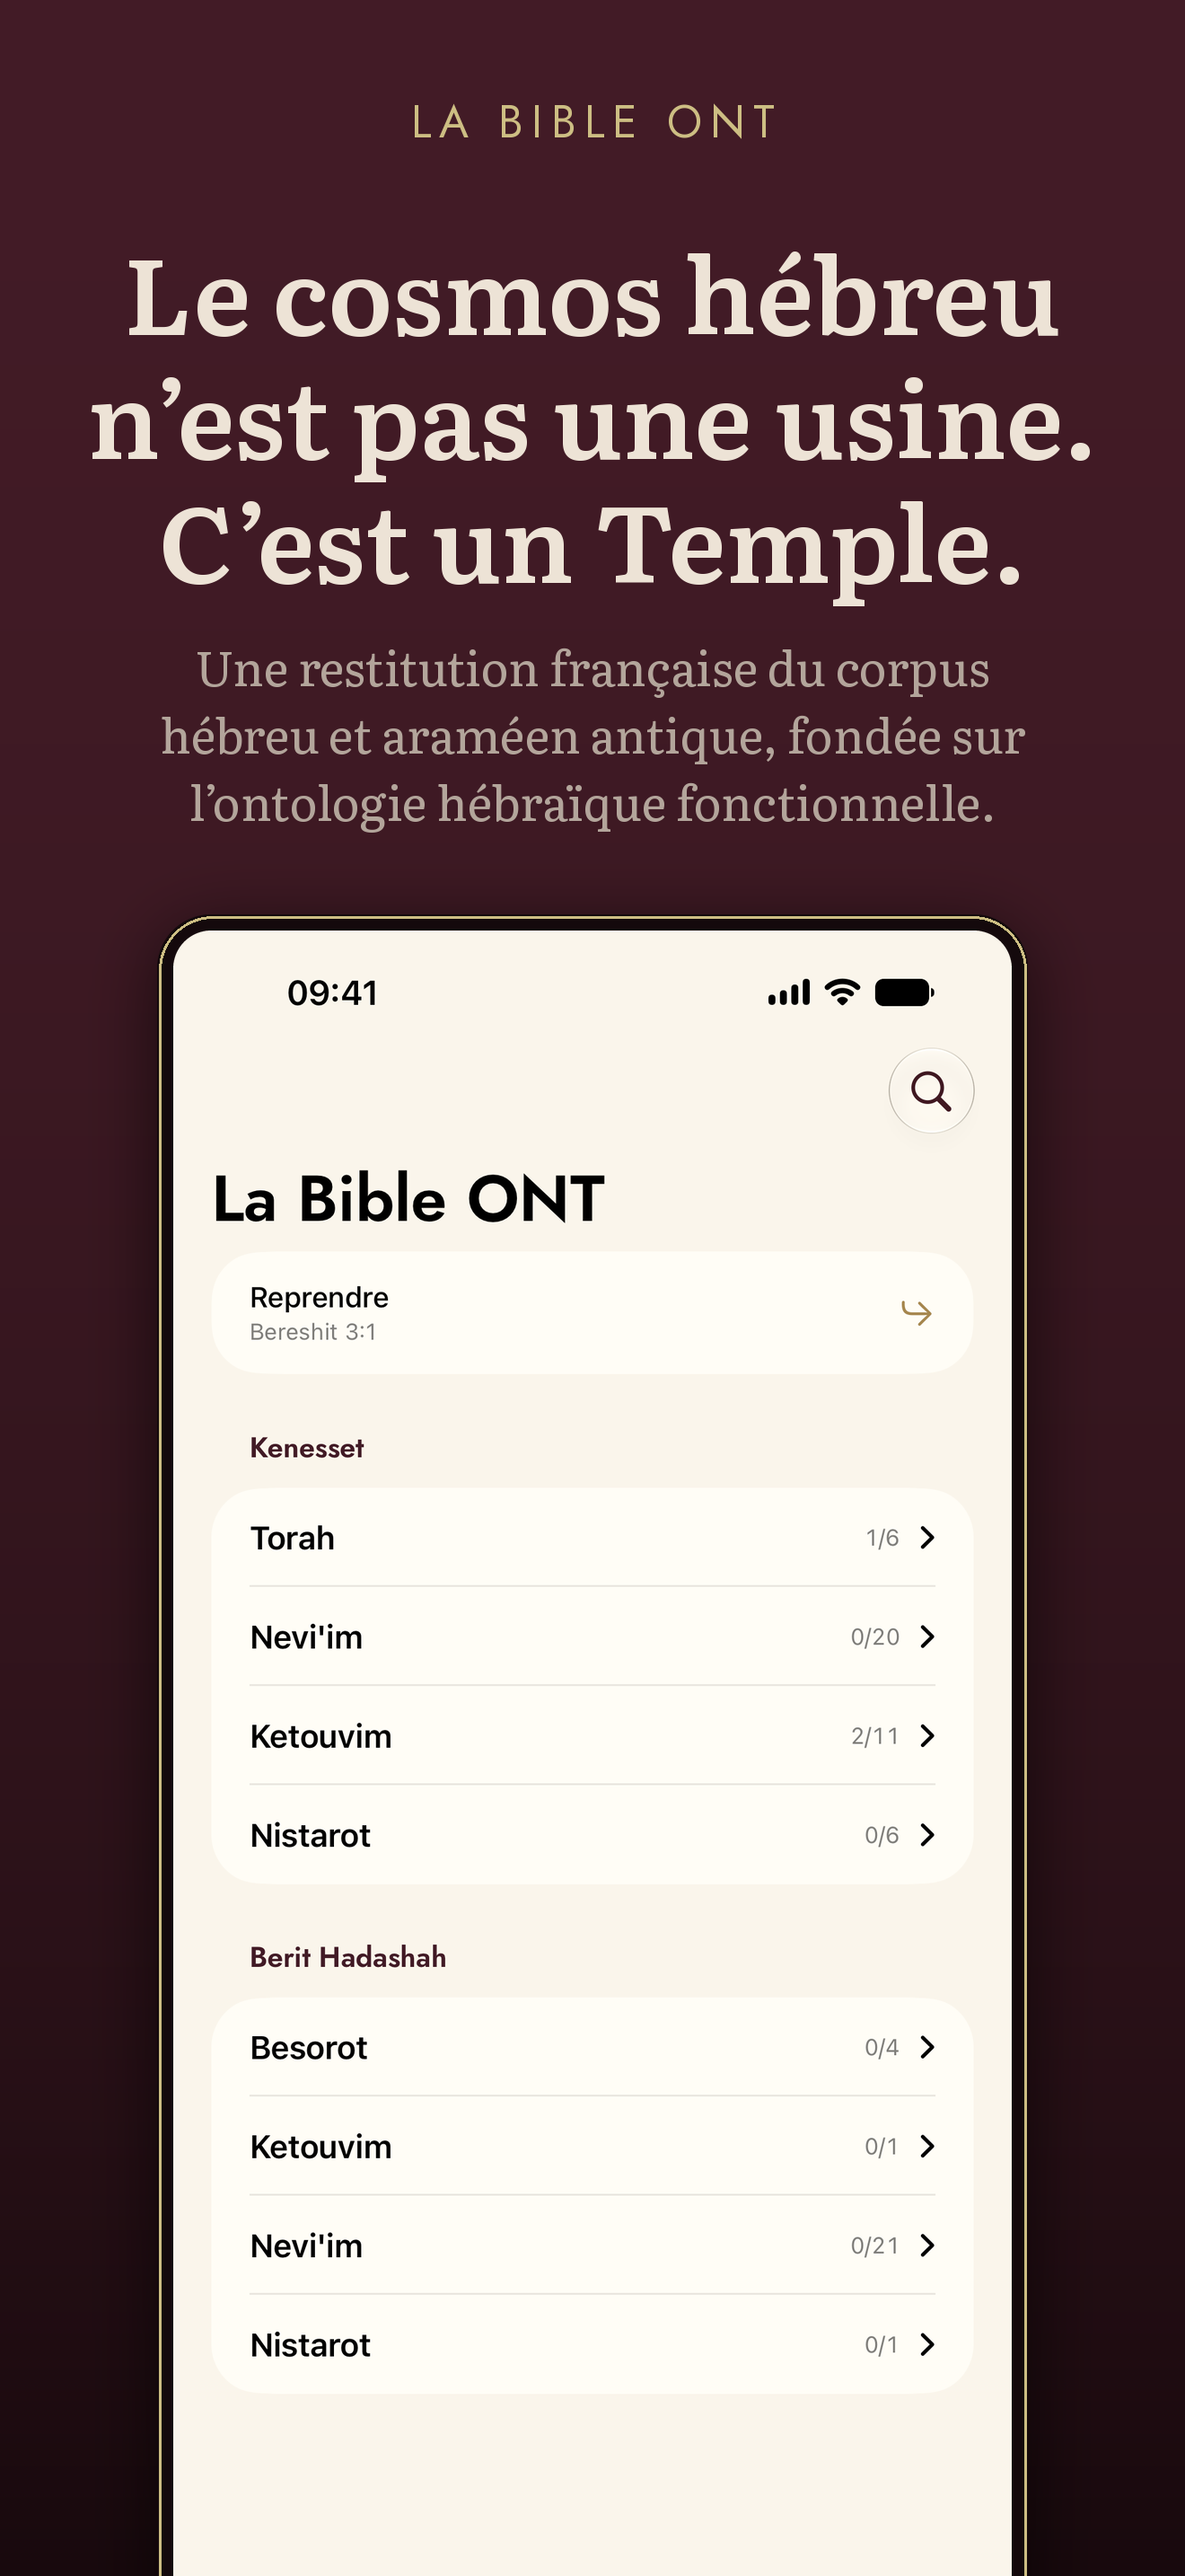
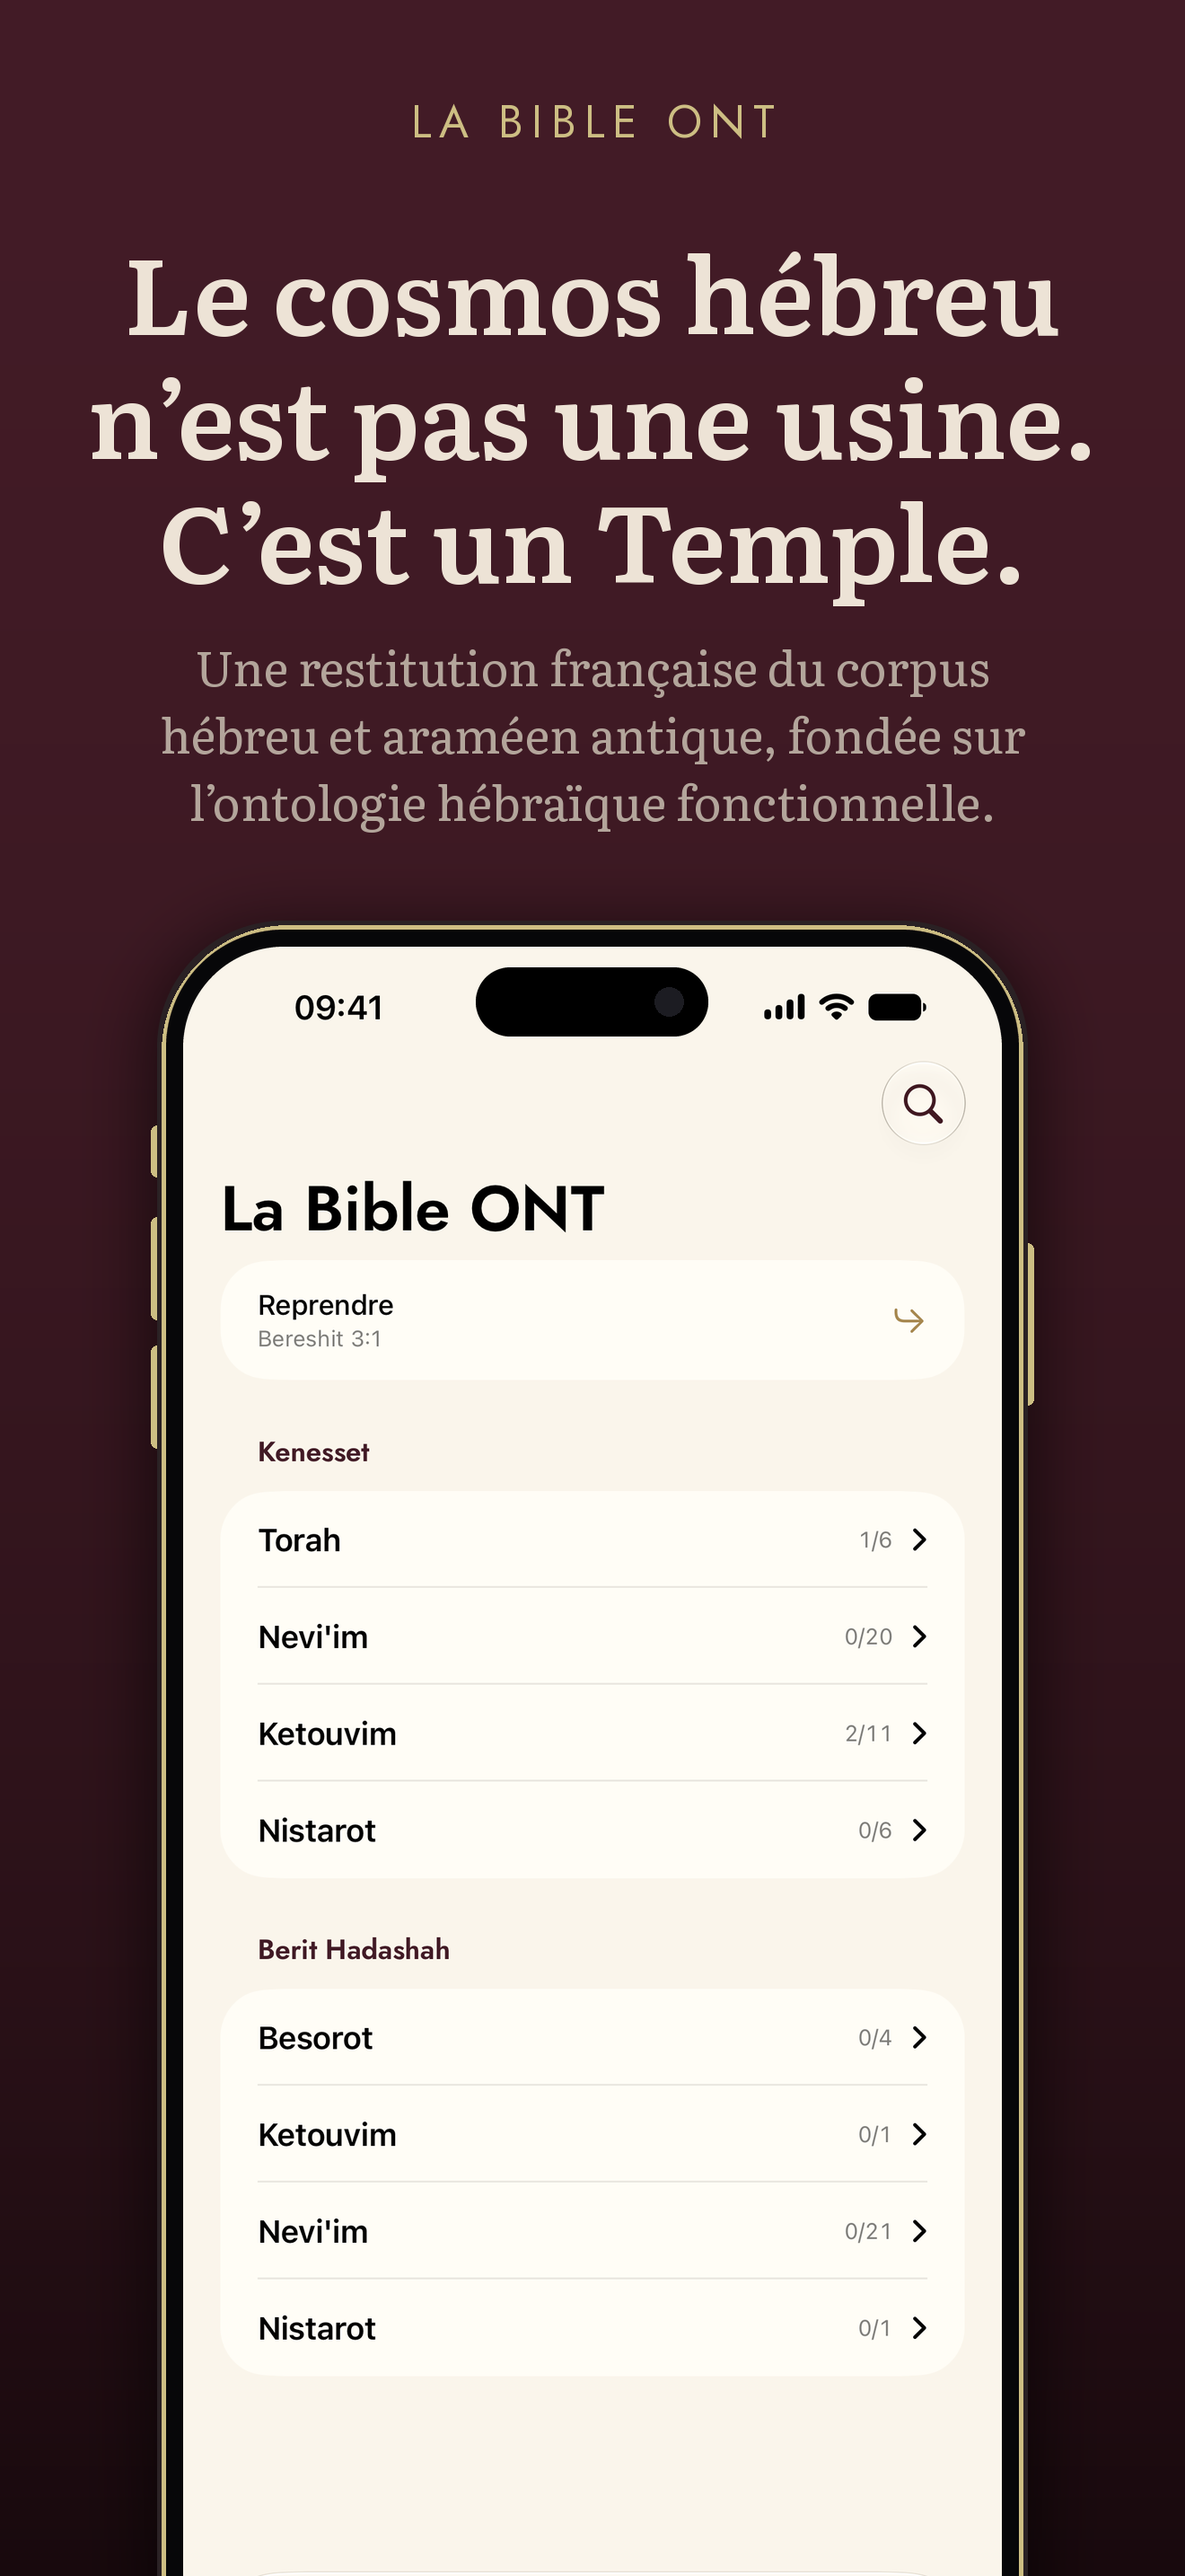
Monter les captures dans un vrai châssis, et non un rectangle arrondi
L'affiche s'est fait prendre pour un appareil Android, et à raison : le
cadre était un rectangle aux coins arrondis, cerclé d'un filet. Un
rectangle nu ne dit rien.

Ce qui dit « Apple » se dessine maintenant, parce que rien de tout cela
n'est dans la capture — `simctl` ne rend que la dalle :

  - l'arête de titane, dorée et non grise. C'est le titane désert, une
    finition qui existe, et celle qu'emploie le mockup de YouVersion.
    Elle tombe juste : l'or est déjà la couleur de la marque, là où un
    rail gris aurait introduit la seule teinte froide de l'affiche ;
  - la lunette noire encastrée entre l'arête et la dalle ;
  - les boutons sur la tranche, qui débordent du châssis ;
  - la Dynamic Island de l'iPhone, avec son objectif.

L'iPad ne se dessine pas comme un grand iPhone : lunette large et
symétrique, coins trois fois moins arrondis, veille sur la tranche
haute, volume sur la tranche droite. Et sa **caméra sur le bord long**,
donc à droite en portrait — elle a déménagé avec l'iPad Pro M4 pour
qu'on soit cadré droit en visio, l'appareil posé en paysage. La mettre
en haut, c'est dessiner un iPad d'avant 2024.

Les proportions sont relevées sur le matériel : la pilule de l'île fait
125 × 37 pt à 11 pt du bord sur un écran de 440 × 956, et le rayon de
l'écran suit celui du châssis moins la lunette, ce qui redonne les 18 pt
de l'iPad et les 55 pt de l'iPhone.

Tout est dans `CADRES`, en fractions de la largeur, un dossier par
[…]

diff --git a/scripts/vitrine.py b/scripts/vitrine.py
@@ -138,7 +138,13 @@ def couper(dessin, texte, fonte, largeur_max):
     return lignes + [courante]
 
 
-COQUE = (0x14, 0x09, 0x0C)
+# Le châssis. L'arête est **dorée** et non grise : c'est le titane désert, une
+# finition qui existe, et c'est celle que prend le mockup de YouVersion. Elle
+# tombe juste — l'or est déjà la couleur de la marque, et un rail gris aurait
+# introduit la seule teinte froide de l'affiche.
+CHASSIS = (0x2A, 0x21, 0x24)  # le corps, dans l'ombre
+RAIL = OR                     # l'arête qui prend la lumière
+LUNETTE = (0x07, 0x07, 0x09)  # le noir entre l'arête et la dalle
 
 
 def arrondi(taille, rayon, remplissage):
@@ -159,49 +165,138 @@ def arrondi(taille, rayon, remplissage):
     return plaque, masque
 
 
-def appareil(capture, largeur_cible):
-    """La capture encastrée dans une coque sombre cerclée d'or.
+# La Dynamic Island, en fractions de la largeur de l'écran. Relevées sur
+# l'iPhone 17 Pro Max : 440 × 956 pt d'écran, une pilule de 125 × 37 pt posée à
+# 11 pt du bord haut.
+ILE = (125 / 440, 37 / 440, 11 / 440)
 
-    L'écran n'est pas arrondi directement. Il l'a été, et le coin mangeait la
-    barre d'état : sur une capture, l'heure touche le bord haut, là où un vrai
-    appareil garde une lunette. On redonne cette lunette — c'est aussi ce qui
-    empêche l'écran clair de flotter comme un rectangle découpé sur la nuit.
+
+def appareil(capture, largeur_cible, cadre):
+    """La capture montée dans un châssis d'appareil.
+
+    ## Pourquoi ce n'est pas un rectangle arrondi
+
+    Ça l'a été, et l'affiche s'est fait prendre pour un appareil Android. Un
+    rectangle nu ne dit pas « iPhone » : ce qui le dit, c'est l'arête de titane
+    qui prend la lumière, la lunette noire, les boutons sur la tranche, et la
+    Dynamic Island. Aucun de ces quatre éléments n'est dans la capture —
+    `simctl` ne rend que la dalle — donc tous se dessinent ici.
+
+    L'écran n'est pas non plus arrondi à même le bord. Il l'a été, et le coin
+    mangeait la barre d'état : sur une capture, l'heure touche le bord haut, là
+    où un vrai appareil garde une lunette.
+
+    ## Ce qui change d'un appareil à l'autre
+
+    Tout est dans `CADRES`, en fractions de la largeur : l'iPad a une lunette
+    plus fine, des coins bien moins arrondis, deux boutons au lieu de quatre,
+    et **pas d'île** — la caméra de l'iPad Pro M5 est sur le bord long,
+    invisible en portrait.
     """
-    lunette = max(2, round(largeur_cible * 0.019))
-    largeur_ecran = largeur_cible - lunette * 2
+    bordure = max(3, round(largeur_cible * cadre["bordure"]))
+    rayon = round(largeur_cible * cadre["rayon"])
+    saillie = max(2, round(largeur_cible * 0.007))
+    # L'arête est épaisse à dessein. Un filet d'un pixel disparaît dès que
+    # l'affiche est vue en vignette, et c'est précisément là qu'elle doit dire
+    # « iPhone ».
+    trait = max(2, round(largeur_cible * 0.010))
+
+    largeur_ecran = largeur_cible - bordure * 2
     hauteur_ecran = round(largeur_ecran * capture.height / capture.width)
-    hauteur_cible = hauteur_ecran + lunette * 2
+    hauteur_cible = hauteur_ecran + bordure * 2
 
-    rayon = round(largeur_cible * 0.062)
-    vignette, _ = arrondi((largeur_cible, hauteur_cible), rayon, COQUE)
+    vignette = Image.new(
+        "RGBA", (largeur_cible + saillie * 2, hauteur_cible + saillie), (0, 0, 0, 0)
+    )
+    dessin = ImageDraw.Draw(vignette)
 
-    ecran = capture.convert("RGB").resize((largeur_ecran, hauteur_ecran), Image.LANCZOS)
-    _, masque_ecran = arrondi((largeur_ecran, hauteur_ecran), max(1, rayon - lunette), (0, 0, 0))
-    vignette.paste(ecran, (lunette, lunette), masque_ecran)
+    # Les boutons d'abord : ils sortent de la tranche, et le châssis vient
+    # ensuite recouvrir la part qui rentre dedans. Les départs et longueurs
+    # comptent le long de la tranche — en hauteur sur les côtés, en largeur sur
+    # le dessus, où l'iPad porte sa veille.
+    for cote, depart, longueur in cadre["boutons"]:
+        if cote == "haut":
+            a = saillie + round(largeur_cible * depart)
+            boite = (a, 0, a + round(largeur_cible * longueur), saillie + bordure)
+        else:
+            a = saillie + round(hauteur_cible * depart)
+            b = a + round(hauteur_cible * longueur)
+            if cote == "gauche":
+                boite = (0, a, saillie + bordure, b)
+            else:
+                boite = (saillie + largeur_cible - bordure, a, largeur_cible + saillie * 2 - 1, b)
+        dessin.rounded_rectangle(boite, radius=saillie, fill=RAIL)
 
-    trait = max(1, round(largeur_cible * 0.0035))
-    ImageDraw.Draw(vignette).rounded_rectangle(
+    corps, _ = arrondi((largeur_cible, hauteur_cible), rayon, CHASSIS)
+    ImageDraw.Draw(corps).rounded_rectangle(
         (trait / 2, trait / 2, largeur_cible - trait / 2 - 1, hauteur_cible - trait / 2 - 1),
         radius=rayon,
-        outline=OR + (255,),
+        outline=RAIL + (255,),
         width=trait,
     )
+
+    # La lunette noire, encastrée entre l'arête et la dalle.
+    creux = trait
+    noir, masque_noir = arrondi(
+        (largeur_cible - creux * 2, hauteur_cible - creux * 2), max(1, rayon - creux), LUNETTE
+    )
+    corps.paste(noir, (creux, creux), masque_noir)
+
+    ecran = capture.convert("RGB").resize((largeur_ecran, hauteur_ecran), Image.LANCZOS)
+    if cadre["ile"]:
+        large, haut, marge = (round(largeur_ecran * f) for f in ILE)
+        gauche = (largeur_ecran - large) // 2
+        pilule, masque_pilule = arrondi((large, haut), haut // 2, (0, 0, 0))
+        ecran.paste(pilule.convert("RGB"), (gauche, marge), masque_pilule)
+        # L'objectif, un cran plus clair que la pilule. Invisible en vignette,
+        # mais l'affiche est aussi regardée en grand dans la fiche.
+        oeil = round(haut * 0.42)
+        ImageDraw.Draw(ecran).ellipse(
+            (
+                gauche + large - round(haut * 0.78),
+                marge + (haut - oeil) // 2,
+                gauche + large - round(haut * 0.78) + oeil,
+                marge + (haut + oeil) // 2,
+            ),
+            fill=(0x1C, 0x1C, 0x22),
+        )
+
+    _, masque_ecran = arrondi((largeur_ecran, hauteur_ecran), max(1, rayon - bordure), (0, 0, 0))
+    corps.paste(ecran, (bordure, bordure), masque_ecran)
+
+    # L'objectif de l'iPad, posé sur la lunette et non dans l'écran.
+    #
+    # Sur le bord **long**, donc à droite en portrait : depuis l'iPad Pro M4 la
+    # caméra a déménagé pour qu'on soit cadré droit en visio, l'iPad posé en
+    # paysage. C'est le détail qui date un mockup — le mettre en haut, c'est
+    # dessiner un iPad d'avant 2024.
+    if cadre.get("camera"):
+        cote, hauteur_relative = cadre["camera"]
+        oeil = max(2, round(largeur_cible * 0.005))
+        centre_x = largeur_cible - (bordure + trait) / 2 if cote == "droite" else (bordure + trait) / 2
+        centre_y = hauteur_cible * hauteur_relative
+        ImageDraw.Draw(corps).ellipse(
+            (centre_x - oeil, centre_y - oeil, centre_x + oeil, centre_y + oeil),
+            fill=(0x1C, 0x1C, 0x22),
+        )
+
+    vignette.alpha_composite(corps, (saillie, saillie))
     return vignette
 
 
-def ombre(taille_vignette, flou, decalage):
+def ombre(taille_vignette, rayon, flou, decalage):
     marge = flou * 3
     largeur, hauteur = taille_vignette
     plaque = Image.new("RGBA", (largeur + marge * 2, hauteur + marge * 2), (0, 0, 0, 0))
     ImageDraw.Draw(plaque).rounded_rectangle(
         (marge, marge + decalage, marge + largeur, marge + hauteur + decalage),
-        radius=round(largeur * 0.062),
+        radius=rayon,
         fill=(0, 0, 0, 150),
     )
     return plaque.filter(ImageFilter.GaussianBlur(flou)), marge
 
 
-def affiche(chemin_capture, titre, phrase):
+def affiche(chemin_capture, titre, phrase, cadre):
     capture = Image.open(chemin_capture)
     L, H = capture.size
 
@@ -240,18 +335,58 @@ def affiche(chemin_capture, titre, phrase):
 
     y += round(L * 0.070)
 
-    vignette = appareil(capture, round(L * 0.735))
+    largeur_appareil = round(L * 0.735)
+    vignette = appareil(capture, largeur_appareil, cadre)
     x = (L - vignette.width) // 2
-    plaque, decalage_ombre = ombre(vignette.size, round(L * 0.028), round(L * 0.012))
+    plaque, decalage_ombre = ombre(
+        vignette.size,
+        round(largeur_appareil * cadre["rayon"]),
+        round(L * 0.028),
+        round(L * 0.012),
+    )
     toile.alpha_composite(plaque, (x - decalage_ombre, y - decalage_ombre))
     toile.alpha_composite(vignette, (x, y))
 
     return toile.convert("RGB")
 
 
+# Les châssis, en fractions de la largeur de l'appareil. Les boutons sont
+# donnés en fractions de sa hauteur : (côté, départ, longueur).
+#
+# Un dossier Android s'ajoutera ici le jour venu — sans île, coins moins
+# arrondis, rail neutre — et rien d'autre ne bougera.
+CADRES = {
+    "iphone-6.9": {
+        "ile": True,
+        "bordure": 0.030,
+        "rayon": 0.145,
+        "boutons": [
+            ("gauche", 0.112, 0.028),  # le bouton Action
+            ("gauche", 0.162, 0.056),  # volume +
+            ("gauche", 0.232, 0.056),  # volume −
+            ("droite", 0.176, 0.088),  # veille, et la commande d'appareil photo
+        ],
+    },
+    # L'iPad ne se dessine pas comme un grand iPhone : lunette large et
+    # symétrique — la dalle ne va pas au bord —, coins trois fois moins
+    # arrondis, veille sur la tranche haute, volume sur la tranche droite, et
+    # la caméra sur le bord long.
+    "ipad-13": {
+        "ile": False,
+        "bordure": 0.030,
+        "rayon": 0.046,
+        "boutons": [
+            ("haut", 0.720, 0.075),  # veille
+            ("droite", 0.055, 0.032),  # volume +
+            ("droite", 0.100, 0.032),  # volume −
+        ],
+        "camera": ("droite", 0.5),
+    },
+}
+
+
 def main():
-    dossiers = ["iphone-6.9", "ipad-13"]
-    for dossier in dossiers:
+    for dossier, cadre in CADRES.items():
         source = CAPTURES / "brut" / dossier
         if not source.is_dir():
             sys.exit(f"manque {source} — lancer ./scripts/captures.sh d'abord")
@@ -259,7 +394,7 @@ def main():
         cible.mkdir(parents=True, exist_ok=True)
         for i, (titre, phrase) in enumerate(AFFICHES, start=1):
             nom = f"{i:02d}.png"
-            image = affiche(source / nom, titre, phrase)
+            image = affiche(source / nom, titre, phrase, cadre)
             image.save(cible / nom)
             print(f"  {cible.relative_to(RACINE)}/{nom}  {image.width}×{image.height}")
 

diff --git a/app/Captures/LISEZ-MOI.md b/app/Captures/LISEZ-MOI.md
@@ -27,9 +27,16 @@ iMessage en teinte la bulle entière. Une première capture sur parchemin donnai
 une carte blafarde ; le fond de nuit assombrit toute la carte.
 
 `scripts/vitrine.py` compose les affiches — marque, accroche, phrase, appareil
-cerclé d'or qui déborde par le bas. Les textes sont ceux de la description de
-la fiche, mot pour mot : les réécrire ici, c'est se garantir deux versions qui
-divergeront.
+qui déborde par le bas. Les textes sont ceux de la description de la fiche, mot
+pour mot : les réécrire ici, c'est se garantir deux versions qui divergeront.
+
+Le châssis est dessiné, pas emprunté : `simctl` ne rend que la dalle. Un simple
+rectangle arrondi a d'abord été essayé, et l'affiche s'est fait prendre pour un
+appareil Android. Ce qui dit « Apple », c'est l'arête de titane, la lunette
+noire, les boutons sur la tranche, la Dynamic Island de l'iPhone — et, sur
+l'iPad, la caméra sur le **bord long**, où elle a déménagé avec le M4 : la
+mettre en haut, c'est dessiner un iPad d'avant 2024. Tout est dans `CADRES`, en
+fractions de la largeur, un dossier par appareil.
 
 ## Les quatre écrans
 
